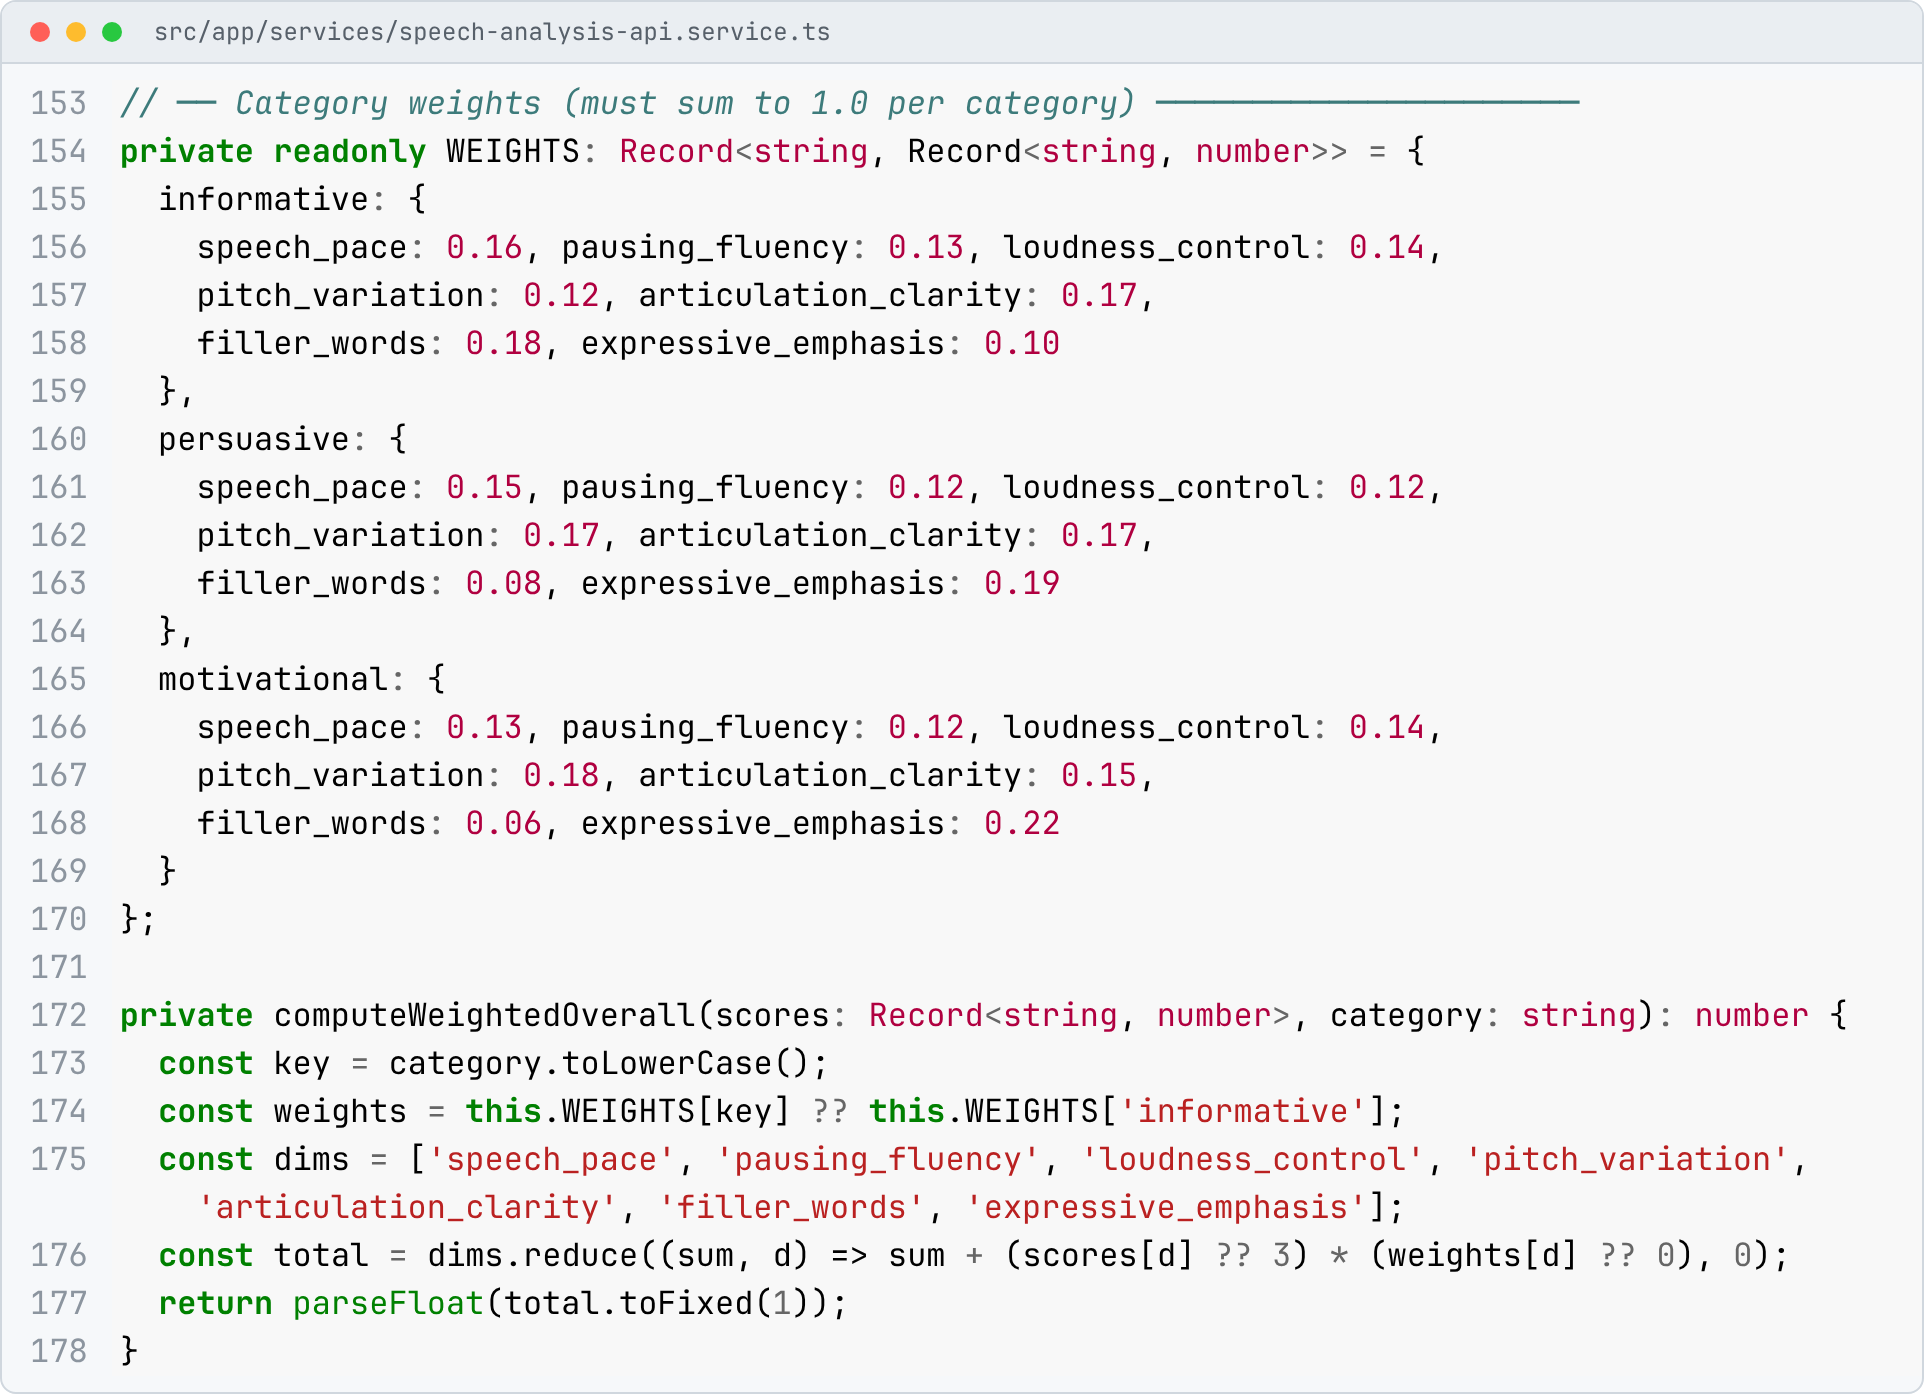
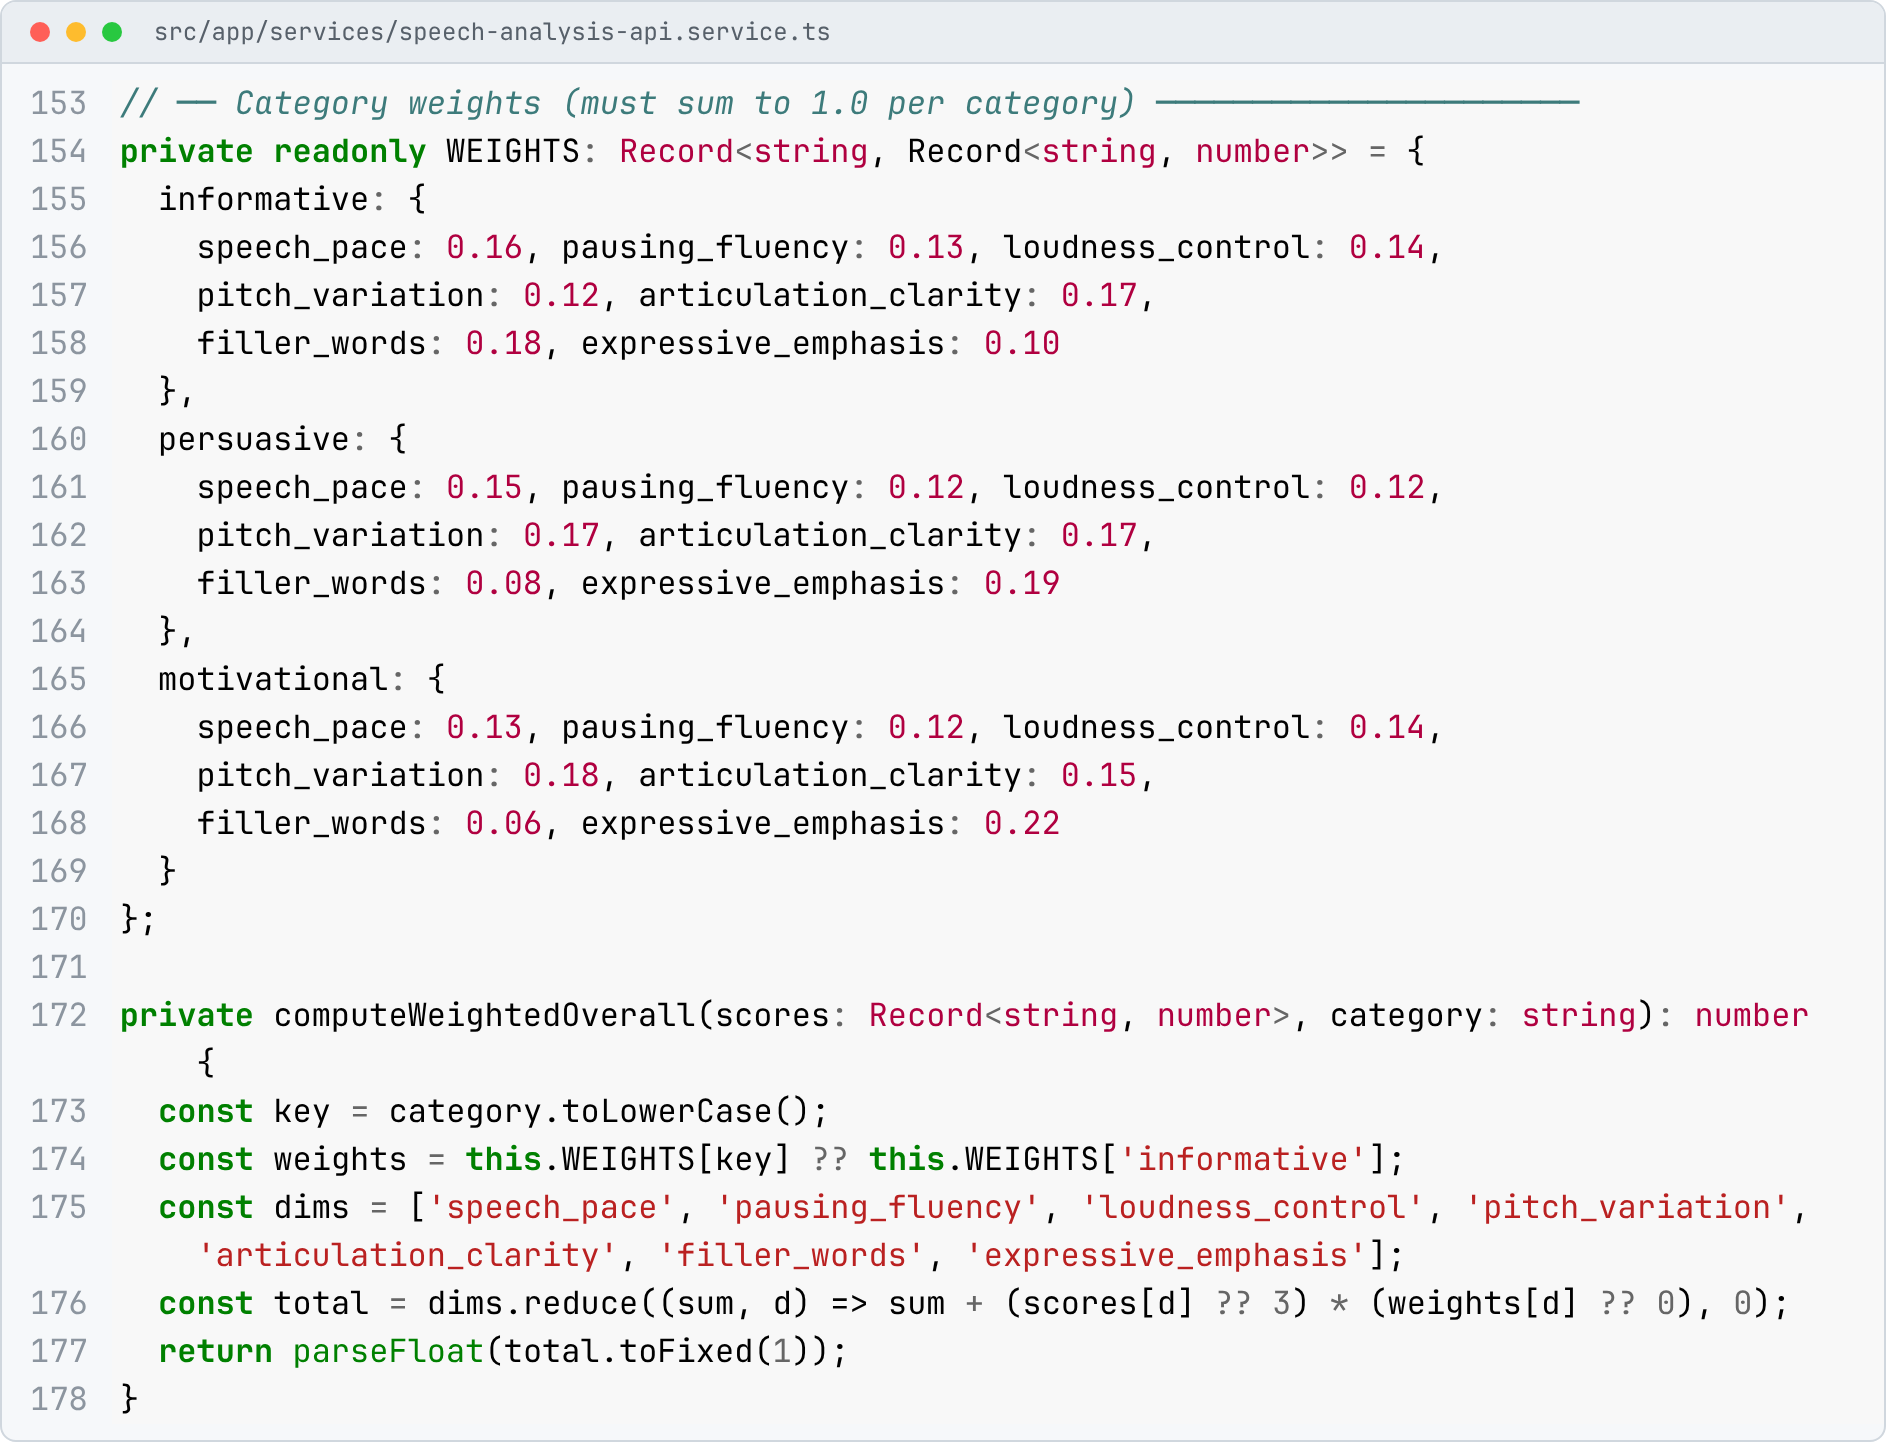
Fix line ranges and wrapping in Chapter 3 code listings
Claude-Session: https://claude.ai/code/session_011aSPqvsZTvdggrzmyhpyQP

Changed region(s): [[0.0, 0.0617, 0.9533, 0.9871], [0.0615, 0.0, 0.4305, 0.0308], [0.7688, 0.802, 0.9533, 0.8637]]

diff --git a/thesis_figures/code_snippets/render_snippets.py b/thesis_figures/code_snippets/render_snippets.py
@@ -12,12 +12,12 @@ ION, BE, OUT = sys.argv[1], sys.argv[2], sys.argv[3]
 SVC = "src/app/services/speech-analysis-api.service.ts"
 L = [
  ("3.1", "transcribe endpoint (Groq Whisper)", BE, "RAGBackEnd/main.py", "python", [(160, 186)]),
- ("3.2", "pause detection from word timestamps", ION, SVC, "typescript", [(276, 293), (303, 312)]),
+ ("3.2", "pause detection from word timestamps", ION, SVC, "typescript", [(276, 293), (304, 312)]),
  ("3.3", "acoustic feature extraction (NumPy)", BE, "RAGBackEnd/main.py", "python", [(67, 95), (120, 136)]),
- ("3.4", "Corpus 2 chunking and embedding", BE, "RAGBackEnd/ingest.py", "python", [(45, 66), (114, 122)]),
- ("3.5", "Practice Mode word accuracy", ION, SVC, "typescript", [(447, 455), (498, 521)]),
- ("3.6", "Corpus 1 cosine similarity retrieval", BE, "RAGBackEnd/retrieval.py", "python", [(34, 63)]),
- ("3.7", "weak areas measured from the session", BE, "RAGBackEnd/retrieval.py", "python", [(137, 170)]),
+ ("3.4", "Corpus 2 chunking and embedding", BE, "RAGBackEnd/ingest.py", "python", [(47, 67), (115, 123)]),
+ ("3.5", "Practice Mode word accuracy", ION, SVC, "typescript", [(447, 455), (498, 520)]),
+ ("3.6", "Corpus 1 cosine similarity retrieval", BE, "RAGBackEnd/retrieval.py", "python", [(34, 61)]),
+ ("3.7", "weak areas measured from the session", BE, "RAGBackEnd/retrieval.py", "python", [(139, 144), (147, 152), (159, 165), (171, 183)]),
  ("3.8", "LLM call with structured JSON output", BE, "RAGBackEnd/main.py", "python", [(284, 318)]),
  ("3.9", "category weights and weighted overall", ION, SVC, "typescript", [(153, 178)]),
  ("3.10", "TensorFlow.js regression for high-impact dimensions", ION, "src/app/services/adaptive-learning.service.ts", "typescript", [(229, 256)]),
@@ -32,7 +32,7 @@ body{margin:0;background:#fff;}
 .dot{width:10px;height:10px;border-radius:50%;display:inline-block}
 table{border-collapse:collapse;margin:8px 0}
 td.ln{color:#8c959f;text-align:right;padding:0 12px 0 14px;user-select:none;vertical-align:top;white-space:pre}
-td.code{padding:0 18px 0 4px;max-width:92ch}
+td.code{padding:0 18px 0 4px;max-width:90ch}
 td.code pre{white-space:pre-wrap;overflow-wrap:anywhere;padding-left:4ch;text-indent:-4ch}
 .code pre, .ln pre{margin:0;line-height:1.5;font-family:inherit}
 .gap td{color:#8c959f;font-style:italic}
@@ -41,18 +41,18 @@ td.code pre{white-space:pre-wrap;overflow-wrap:anywhere;padding-left:4ch;text-in
 def render(entry):
     lid, title, root, path, lang, ranges = entry
     src = open(os.path.join(root, path), encoding="utf-8").read().split("\n")
-    lexer = get_lexer_by_name(lang)
+    lexer = get_lexer_by_name(lang, stripnl=False, ensurenl=False)
     fmt = HtmlFormatter(style="default", nowrap=True)
     rows = []
     allines = [l for (a, b) in ranges for l in src[a-1:b]]
     ind = min((len(l) - len(l.lstrip()) for l in allines if l.strip()), default=0)
+    full = highlight("\n".join(l[ind:] if l.strip() else "" for l in src), lexer, fmt).split("\n")
     for k, (a, b) in enumerate(ranges):
         if k:
             rows.append('<tr class="gap"><td class="ln"><pre>⋮</pre></td><td class="code"><pre>  …</pre></td></tr>')
-        block = src[a-1:b]
-        hl = highlight("\n".join(l[ind:] for l in block), lexer, fmt).rstrip("\n").split("\n")
-        for n, line in zip(range(a, b+1), hl):
-            rows.append(f'<tr><td class="ln"><pre>{n}</pre></td><td class="code"><pre>{line or " "}</pre></td></tr>')
+        print(path, a, repr(src[a-1].strip()[:50]), "...", b, repr(src[b-1].strip()[:50]), file=sys.stderr)
+        for n in range(a, b + 1):
+            rows.append(f'<tr><td class="ln"><pre>{n}</pre></td><td class="code"><pre>{full[n-1] or " "}</pre></td></tr>')
     css = fmt.get_style_defs(".code") + CSS_EXTRA
     doc = f"""<html><head><meta charset=utf-8><style>{css}</style></head><body>
 <div class=card id=card><div class=bar><span class=dot style="background:#ff5f57"></span>
